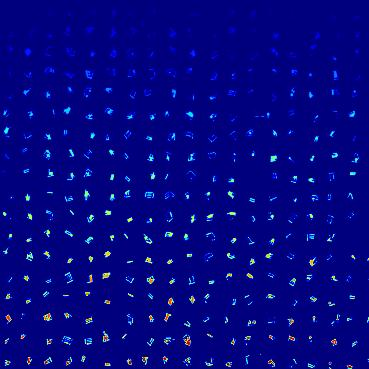
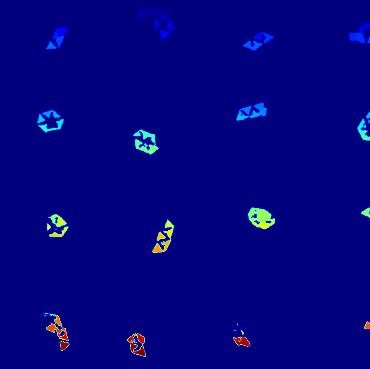
update

diff --git a/OIP21_lib_ImageProcessing_V6.py b/OIP21_lib_ImageProcessing_V6.py
@@ -162,9 +162,9 @@ def countRods(i):
                 try:
                     # check if the to line segments intersect (in try because /0)
                     t = ((x1 - x3) * (y3 - y4) - (y1 - y3) * (x3 - x4)) / (
-                                (x1 - x2) * (y3 - y4) - (y1 - y2) * (x3 - x4))
+                            (x1 - x2) * (y3 - y4) - (y1 - y2) * (x3 - x4))
                     u = ((x1 - x3) * (y1 - y2) - (y1 - y3) * (x1 - x2)) / (
-                                (x1 - x2) * (y3 - y4) - (y1 - y2) * (x3 - x4))
+                            (x1 - x2) * (y3 - y4) - (y1 - y2) * (x3 - x4))
                     # check difference in angles taking care of 0-360
                     a = theta - i[1]
                     a = ((a + np.pi / 2) % (np.pi * 1)) - np.pi / 2
@@ -304,23 +304,48 @@ def openCv_HoughCircles(img, tolerance, minRadius, maxRadius):
     return circles
 
 
-def locwatershed(img_org, thresh2,modifier=1):
-    kernel = np.ones((3, 3), np.uint8)
-    thresh2 = cv2.erode(thresh2, kernel, iterations=1)
-    minareacircles = []
-    avgr=[]
-    # print(img.shape)
+def find_particle(img, x,y,r, percentage=0.1): #set to 10% by default
+    # This failed horribly
+    img_temp = img[int(y - r):int(y + r), int(x - r):int(x + r)]
+    whitePixles = cv2.countNonZero(img_temp)
+    if whitePixles >= (
+            r * r * 4) * percentage:  # Calculate the area of a circle and then multiplies it by the % and then checks if it is bigger then the white in the area
+        return True  # if the smallest white is bigger then area*% append it
+    else:
+        print("thing ignored, size ", whitePixles)
+        return False
+
+
+def locwatershed(img_org, thresh2, modifier=1.9):
+    zoom = False
+    redux = False
     img = img_org.copy()
-    # print()
     l, b = np.shape(thresh2)
-    if l < 40 and b < 40:
+    if l < 50 and b < 50:
+        zoom = True
         # print("zoom activated", l,b)
         img = cv2.resize(img, (0, 0), fx=2, fy=2)
+        thresh2 = cv2.resize(thresh2, (0, 0), fx=4, fy=4)
+    kernel = np.array(Mex5, np.uint8)  # np.ones((3, 3), np.uint8)
+    temp = min_filter(thresh2, 3)
+    # thresh2= auto_thresh(thresh2)
+    temp = cv2.dilate(cv2.erode(temp, kernel, iterations=1), kernel, iterations=1)
+
+    if cv2.countNonZero(temp) > 0.4 * cv2.countNonZero(thresh2) and not zoom:
+        thresh2 = temp
+        redux=True
+        print(cv2.countNonZero(temp), 0.6 * cv2.countNonZero(thresh2))
+    else:
+        kernel =  np.ones((3, 3), np.uint8)
+        thresh2=cv2.erode(thresh2, kernel, iterations=1)
+    minareacircles = []
+    avgr = []
+
     D = ndimage.distance_transform_edt(thresh2)
     localMax = peak_local_max(D, indices=False, min_distance=5,
                               labels=thresh2)
     # perform a connected component analysis on the local peaks,
-    # using 8-connectivity, then appy the Watershed algorithm
+    # using 8-connectivity, then apply the Watershed algorithm
     markers = ndimage.label(localMax, structure=np.ones((3, 3)))[0]
     labels = watershed(-D, markers, mask=thresh2)
 
@@ -341,12 +366,13 @@ def locwatershed(img_org, thresh2,modifier=1):
         c = max(cnts, key=cv2.contourArea)
         # draw a circle enclosing the object
         ((x, y), r) = cv2.minEnclosingCircle(c)
-        minareacircles.append([x, y, r])
-        avgr.append(r)
+        if(find_particle(thresh2,x,y,r,0.3)):
+            minareacircles.append([x, y, r])
+            avgr.append(r)
     try:
-        print(avgr)
+        # print(avgr)
         # print(np.mean(avgr)-2*np.std(avgr), "\n\n\n")
-        Removed = [i for i in minareacircles if i[2] < np.mean(avgr)-modifier*np.std(avgr)]
+        # Removed = [i for i in minareacircles if i[2] < np.mean(avgr)-modifier*np.std(avgr)]
         # print("::: REmoved DAta:::", len(Removed))
         minareacircles = [i for i in minareacircles if i[2] >= np.mean(avgr)-modifier*np.std(avgr)]
 
@@ -354,12 +380,15 @@ def locwatershed(img_org, thresh2,modifier=1):
             x, y, z = l
             cv2.circle(img, (int(x), int(y)), int(r), (0, 255, 0), 1)
     except Exception as E:
-        print("Error: " ,E ,len(np.unique(labels)))
+        print("Error: ", E, len(np.unique(labels)))
     # cv2.putText(image, "#{}".format(label), (int(x) - 10, int(y)),
     # cv2.FONT_HERSHEY_SIMPLEX, 0.6, (0, 0, 255), 2)
     # show the output image
     # print("Comaprison::",len(minareacircles),len(np.unique(labels))-1)
-    return thresh2,img, len((minareacircles))
+    if redux:
+        print(minareacircles,cv2.countNonZero(temp) ,cv2.countNonZero(thresh2))
+    return thresh2, img, len((minareacircles))
+
 
 # -------------------------------------------------------------
 
@@ -1647,6 +1676,3 @@ def plot_image_sequence(sequence, title='Intensity Image', cmap='gray', vmax=255
         ax.set_title('threshold level: %3i' % (i))
         plt.pause(0.01)
     return fig, ax
-
-
-

diff --git a/main.py b/main.py
@@ -19,8 +19,8 @@ def power_law(x, a, b):
 
 
 if __name__ == '__main__':
-    #img_array = ['./pictures/big_circles_orginal.tif', './pictures/big_lines_orginal.tif', './pictures/T001.png']
-    img_array= ['./pictures/big_triangles_orginal.png']
+    # img_array = ['./pictures/big_circles_orginal.tif', './pictures/big_lines_orginal.tif', './pictures/T001.png']
+    img_array= ['./pictures/big_circles_orginal.tif']
     # Probably some better way of doing this but just for simplicty a variable or array will be made for each thing
     totalNumberOfClusters = 0  # Region labelling
     totalNumberOfParticles = 0  # particles in cluster: watershed
